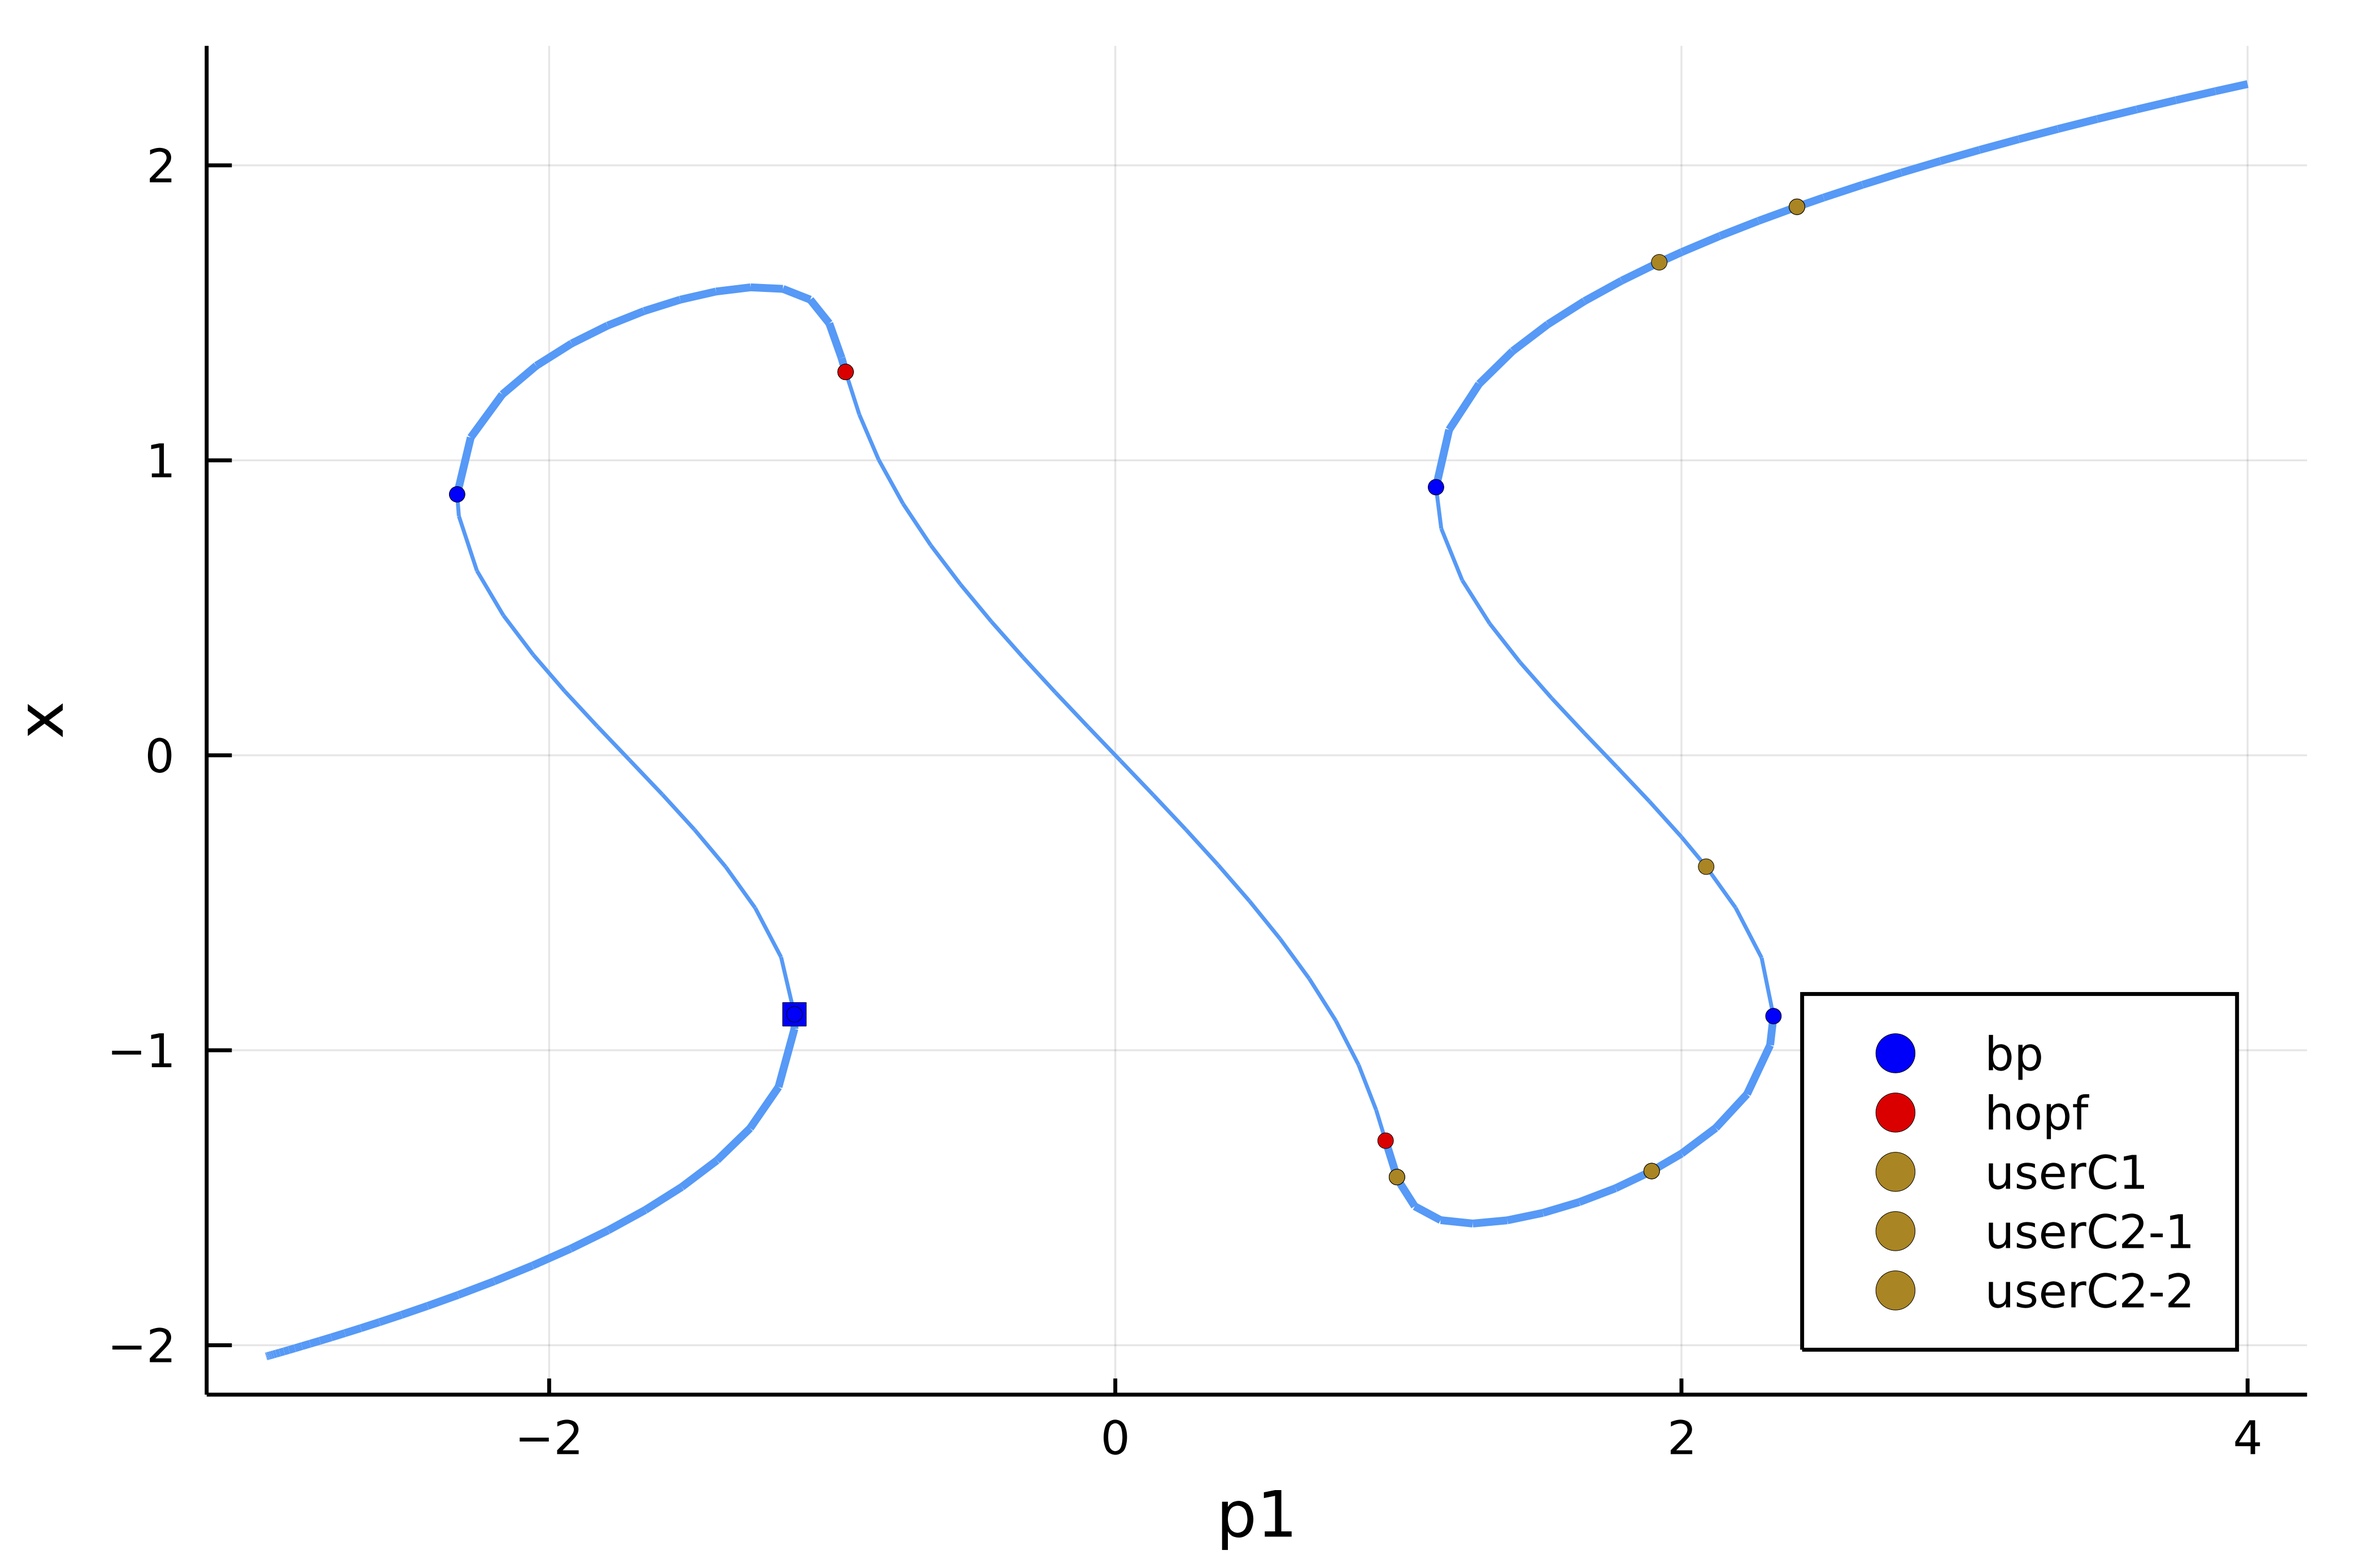
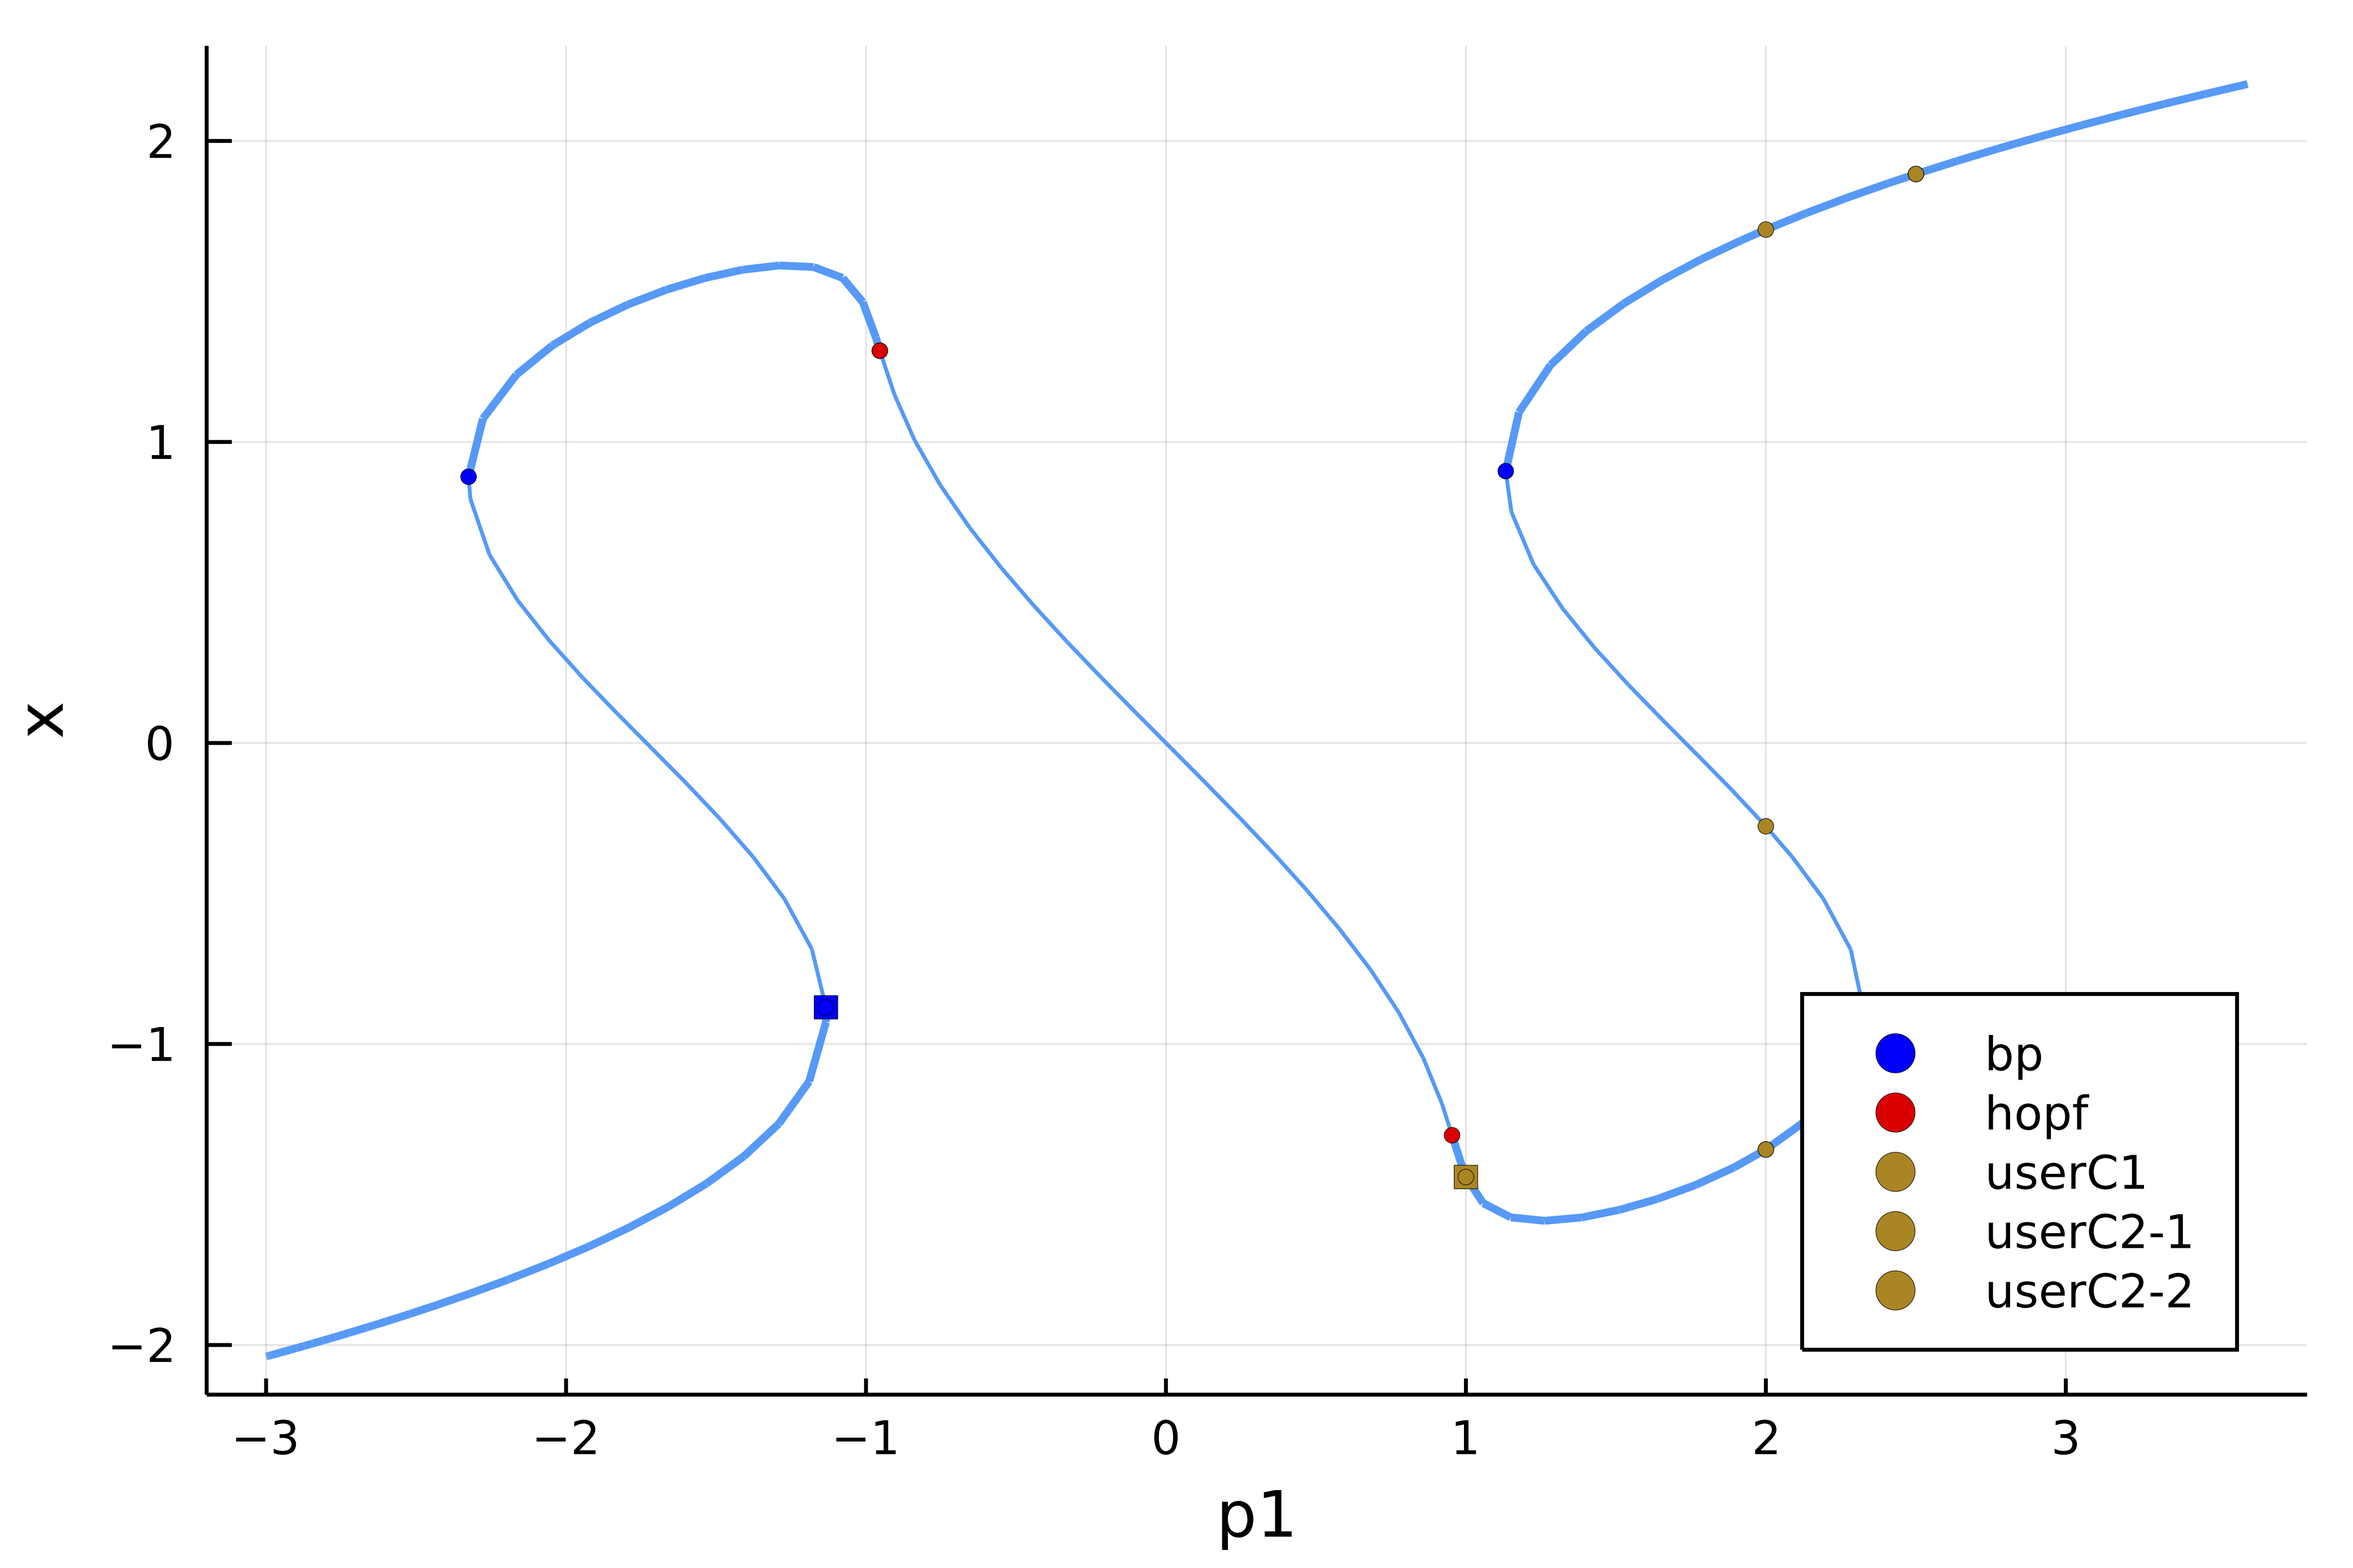
correct docs on Events

diff --git a/docs/src/EventCallback.md b/docs/src/EventCallback.md
@@ -73,32 +73,33 @@ using Plots
 const BK = BifurcationKit
 ####################################################################################################
 # test vector field for event detection
-function F(X, p)
+function Feve(X, p)
 	p1, p2, k = p
 	x, y = X
 	out = similar(X)
 	out[1] = p1 + x - y - x^k/k
-	out[2] = p1 + y - 2y^k/k
+	out[2] = p1 + y + x - 2y^k/k
 	out
 end
 
 # associated jacobian
-J(X, p) = ForwardDiff.jacobian(z -> F(z,p), X)
+Jeve(X, p) = ForwardDiff.jacobian(z -> Feve(z,p), X)
 
 # parameters for the vector field
 par = (p1 = -3., p2=-3., k=3)
 
 # parameters for the continuation
-opts = ContinuationPar(dsmax = 0.1, ds = 0.001, maxSteps = 128, pMin = -3., pMax = 0.5,
-	 saveSolEveryStep = 1, plotEveryStep = 10,
-	 newtonOptions = NewtonPar(tol = 1e-10, verbose = false, maxIter = 5),
-	 # parameters specific to event detection
-	 detectBifurcation = 0, detectEvent = 2, nInversion = 6, dsminBisection = 1e-9, 
-	 maxBisectionSteps = 15, detectFold=false, tolBisectionEvent = 1e-4)
-	 
+opts = ContinuationPar(dsmax = 0.1, ds = 0.001, maxSteps = 128, pMin = -3., pMax = 4.0,
+     saveSolEveryStep = 1, plotEveryStep = 10,
+     newtonOptions = NewtonPar(tol = 1e-10, verbose = false, maxIter = 5),
+     # parameters specific to event detection
+     detectBifurcation = 0, detectEvent = 2, nInversion = 6, dsminBisection = 1e-9,
+     maxBisectionSteps = 15, detectFold=false)
+
 # arguments for continuation
-args = (F, J, -2ones(2), par, (@lens _.p1), opts)
-kwargs = (plot = true, verbosity = 3, printSolution = (x,p) -> x[1], linearAlgo = MatrixBLS(),)
+args = (Feve, Jeve, -2ones(2), par, (@lens _.p1), opts)
+kwargs = (plot = true, verbosity = 3, printSolution = (x,p) -> x[1],
+    linearAlgo = MatrixBLS(),)
 ```
 
 ### Example of continuous event
@@ -214,16 +215,15 @@ Here `userD-1` means that the first component of the discrete event was detected
 ### Example of set of events
 We can combine more events and chain them like we want using `SetOfEvents`. In this example, we show how to do bifurcation detection and event location altogether:
 
-```julia
-# event to detect when p = 1
+```julia		
 ev1 = BK.ContinuousEvent(1, (iter, state) -> getp(state)-1)
 ev2 = BK.ContinuousEvent(2, (iter, state) -> (getp(state)-2, getp(state)-2.5))
 # event to detect bifurcation
-ev3 = BK.BifDetectCB
+ev3 = BK.BifDetectEvent
 # we combine the events together
 eve = BK.SetOfEvents(ev1, ev2, ev3)
 
-br, = continuation(args2...; kwargs...,
+br, = continuation(args...; kwargs...,
 		event = eve)
 ```
 

diff --git a/docs/src/codim2Continuation.md b/docs/src/codim2Continuation.md
@@ -16,6 +16,9 @@ g(u,p)
 
 where $w,v$ are chosen in order to have a non-singular matrix $(M_f)$. More precisely, $v$ (resp. $w$) should be close to a null vector of `dF(u,p)` (resp. `dF(u,p)'`). During continuation, the vectors $w,v$ are updated so that the matrix $(M_f)$ remains non-singular ; this is controlled with the argument `updateMinAugEveryStep` (see below).
 
+!!! warning "Linear Method"
+    You can pass the bordered linear solver to solve $(M_f)$ using the option `bdlinsolver ` (see below). Note that the choice `bdlinsolver = BorderingBLS()` can lead to singular systems. Indeed, in this case, $(M_f)$ is solved by inverting `dF(u,p)` which is singular at Fold points.
+
 ## Hopf continuation
 
 The continuation of Fold bifurcation points is based on a **Minimally Augmented** (see [^Govaerts] p. 87) formulation which is an efficient way to detect singularities. The continuation of Hopf points is based on the formulation $G(u,\omega,p) = (F(u,\omega,p), g(u,\omega,p))\in\mathbb R^{n+2}$ where the test function $g$ is solution of
@@ -40,8 +43,10 @@ Once a Fold/Hopf point has been detected after a call to `br, _ = continuation(.
 
 ```julia
 outfold, hist, flag =  newton(F, J, br::AbstractBranchResult, ind_bif::Int64; 
-	Jᵗ = nothing, d2F = nothing, normN = norm, 
-	options = br.contparams.newtonOptions, startWithEigen = false, kwargs...)
+	issymmetric = false, Jᵗ = nothing, d2F = nothing, 
+	normN = norm, 	options = br.contparams.newtonOptions, 
+	bdlinsolver = BorderingBLS(options.linsolver),
+	startWithEigen = false, kwargs...)
 ```
 
 where `par` is the set of parameters used in the call to [`continuation`](@ref) to compute `br`. For the options parameters, we refer to [Newton](@ref).
@@ -53,7 +58,9 @@ It is important to note that for improved performances, a function implementing 
 To compute the codim 2 curve of Fold/Hopf points, one can call [`continuation`](@ref) with the following options
 
 ```@docs
- continuation(F, J, br::BifurcationKit.AbstractBranchResult, ind_bif::Int64, lens2::Setfield.Lens, options_cont::BifurcationKit.ContinuationPar ; startWithEigen = false, Jᵗ = nothing, d2F = nothing, kwargs...)
+ continuation(F, J, br::BifurcationKit.AbstractBranchResult, ind_bif::Int64,
+ 	lens2::Setfield.Lens, options_cont::BifurcationKit.ContinuationPar ; 
+ 	startWithEigen = false, Jᵗ = nothing, d2F = nothing, kwargs...)
 ```
 
 where the options are as above except with have an additional parameter axis `lens2` which is used to locate the bifurcation points. 

diff --git a/docs/src/tutorials3b.md b/docs/src/tutorials3b.md
@@ -194,9 +194,6 @@ which gives using `plot(br_hopf)`
 
 ![](bru-hopf-cont.png)
 
-!!! tip "Performance"
-    You can really speed this up by passing the second differential. In this case, we have `d2Fbru` above from `ForwardDiff` but it does not like `Complex` arguments. You can then pass the following argument which circumvents the problem of using `ForwardDiff`: `d2F = (x,p,dx1,dx2) -> BK.BilinearMap((_dx1, _dx2) -> d2Fbru(x,p,_dx1,_dx2))(dx1,dx2)`
-
 ## Continuation of periodic orbits (Finite differences)
 
 Here, we perform continuation of periodic orbits branching from the Hopf bifurcation points.We need an educated guess for the periodic orbit which is given by `guessFromHopf`:
